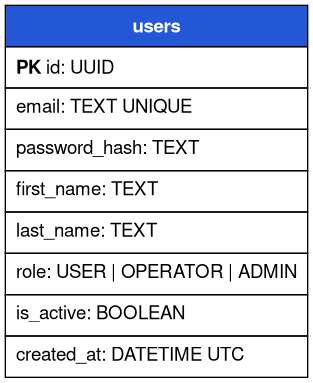
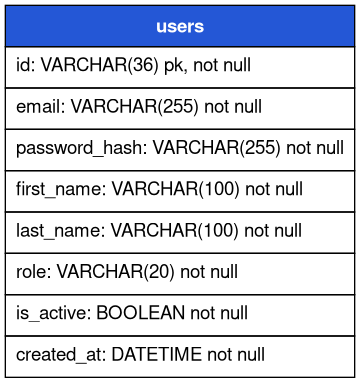
Исправление Identity Service

Changed region(s): [[0.0, 0.0, 1.0, 1.0], [0.4026, 0.0574, 0.5751, 0.0862]]

diff --git a/smart-city/services/identity-service/app/database.py b/smart-city/services/identity-service/app/database.py
@@ -1,14 +1,40 @@
 import os
+from datetime import datetime, timezone
 from collections.abc import Generator
 
-from sqlalchemy import create_engine
+from sqlalchemy import DateTime, create_engine, event, inspect
+from sqlalchemy.types import TypeDecorator
 from sqlalchemy.orm import DeclarativeBase, Session, sessionmaker
 
 DATABASE_URL = os.getenv("DATABASE_URL", "sqlite:///./identity.db")
-engine = create_engine(
-    DATABASE_URL,
-    connect_args={"check_same_thread": False} if DATABASE_URL.startswith("sqlite") else {},
-)
+
+
+def build_engine(url: str):
+    connect_args = {"check_same_thread": False, "timeout": 30} if url.startswith("sqlite") else {}
+    result = create_engine(url, connect_args=connect_args)
+    if url.startswith("sqlite"):
+        @event.listens_for(result, "connect")
+        def configure_sqlite(connection, _):
+            connection.execute("PRAGMA foreign_keys=ON")
+    return result
+
+
+class UTCDateTime(TypeDecorator):
+    impl = DateTime
+    cache_ok = True
+
+    def process_bind_param(self, value, dialect):
+        if value is None:
+            return None
+        if value.tzinfo is None:
+            raise ValueError("Datetime must have a timezone")
+        return value.astimezone(timezone.utc).replace(tzinfo=None)
+
+    def process_result_value(self, value, dialect):
+        return value.replace(tzinfo=timezone.utc) if value is not None else None
+
+
+engine = build_engine(DATABASE_URL)
 SessionLocal = sessionmaker(bind=engine, autoflush=False, expire_on_commit=False)
 
 
@@ -21,7 +47,28 @@ def get_db() -> Generator[Session, None, None]:
         yield session
 
 
+def schema_signature(reader, name):
+    normalize = lambda value: "" if value is None else str(value).strip()
+    return (
+        sorted((c["name"], str(c["type"]), c["nullable"], normalize(c.get("default"))) for c in reader.get_columns(name)),
+        reader.get_pk_constraint(name)["constrained_columns"],
+        sorted((i["name"], bool(i["unique"]), tuple(i["column_names"]), normalize(i.get("dialect_options", {}).get("sqlite_where"))) for i in reader.get_indexes(name)),
+        sorted((tuple(u["column_names"])) for u in reader.get_unique_constraints(name)),
+        sorted((c["name"] or "", normalize(c["sqltext"])) for c in reader.get_check_constraints(name)),
+        sorted((tuple(f["constrained_columns"]), f["referred_table"], tuple(f["referred_columns"]), repr(sorted(f.get("options", {}).items()))) for f in reader.get_foreign_keys(name)),
+    )
+
+
 def init_database() -> None:
     import app.models  # noqa: F401
 
+    reference = build_engine("sqlite://")
+    try:
+        Base.metadata.create_all(reference)
+        existing, expected = inspect(engine), inspect(reference)
+        for table in Base.metadata.sorted_tables:
+            if existing.has_table(table.name) and schema_signature(existing, table.name) != schema_signature(expected, table.name):
+                raise RuntimeError("Legacy database: migrate a backup with scripts/migrate_database.py before starting")
+    finally:
+        reference.dispose()
     Base.metadata.create_all(bind=engine)

diff --git a/smart-city/services/identity-service/app/auth.py b/smart-city/services/identity-service/app/auth.py
@@ -1,4 +1,5 @@
 import os
+from uuid import UUID
 from dataclasses import dataclass
 from datetime import datetime, timedelta, timezone
 from typing import Annotated, Callable
@@ -7,6 +8,7 @@ import jwt
 from fastapi import Depends, HTTPException, status
 from fastapi.security import HTTPAuthorizationCredentials, HTTPBearer
 from pwdlib import PasswordHash
+from pwdlib.exceptions import UnknownHashError
 
 password_hasher = PasswordHash.recommended()
 bearer_scheme = HTTPBearer(auto_error=False)
@@ -23,7 +25,10 @@ def hash_password(password: str) -> str:
 
 
 def verify_password(password: str, password_hash: str) -> bool:
-    return password_hasher.verify(password, password_hash)
+    try:
+        return password_hasher.verify(password, password_hash)
+    except (UnknownHashError, ValueError):
+        return False
 
 
 def create_access_token(user_id: str, role: str) -> str:
@@ -52,17 +57,21 @@ def get_current_user(
             credentials.credentials,
             os.getenv("JWT_SECRET", "development-jwt-secret"),
             algorithms=["HS256"],
+            options={"require": ["sub", "role", "exp"]},
         )
         user_id = payload["sub"]
         role = payload["role"]
-    except (jwt.InvalidTokenError, KeyError, TypeError):
+        UUID(user_id)
+        if role not in {"USER", "OPERATOR", "ADMIN"}:
+            raise ValueError("Invalid role")
+    except (jwt.InvalidTokenError, KeyError, TypeError, ValueError, AttributeError, OverflowError):
         raise HTTPException(
             status_code=status.HTTP_401_UNAUTHORIZED,
             detail="Недействительный JWT",
             headers={"WWW-Authenticate": "Bearer"},
         ) from None
 
-    return CurrentUser(id=str(user_id), role=str(role))
+    return CurrentUser(id=str(UUID(user_id)), role=role)
 
 
 def require_roles(*allowed_roles: str) -> Callable:

diff --git a/smart-city/services/identity-service/app/schemas.py b/smart-city/services/identity-service/app/schemas.py
@@ -1,4 +1,5 @@
 from datetime import datetime
+import re
 from typing import Literal
 
 from pydantic import BaseModel, ConfigDict, Field, field_validator
@@ -7,6 +8,11 @@ Role = Literal["USER", "OPERATOR", "ADMIN"]
 
 
 class RegisterRequest(BaseModel):
+    @field_validator("first_name", "last_name", mode="before")
+    @classmethod
+    def trim_names(cls, value):
+        return value.strip() if isinstance(value, str) else value
+
     email: str = Field(min_length=3, max_length=255)
     password: str = Field(min_length=8, max_length=128)
     first_name: str = Field(min_length=1, max_length=100)
@@ -16,7 +22,7 @@ class RegisterRequest(BaseModel):
     @classmethod
     def validate_email(cls, value: str) -> str:
         normalized = value.strip().lower()
-        if "@" not in normalized or normalized.startswith("@"):
+        if not re.fullmatch(r"[^\s@]+@(?:[a-z0-9](?:[a-z0-9-]*[a-z0-9])?\.)+[a-z]{2,63}", normalized):
             raise ValueError("Введите корректный email")
         return normalized
 

diff --git a/smart-city/services/identity-service/app/models.py b/smart-city/services/identity-service/app/models.py
@@ -1,13 +1,14 @@
 from datetime import datetime, timezone
 
-from sqlalchemy import Boolean, DateTime, String
+from sqlalchemy import Boolean, CheckConstraint, String
 from sqlalchemy.orm import Mapped, mapped_column
 
-from app.database import Base
+from app.database import Base, UTCDateTime
 
 
 class User(Base):
     __tablename__ = "users"
+    __table_args__ = (CheckConstraint("role IN ('USER','OPERATOR','ADMIN')", name="ck_user_role"),)
 
     id: Mapped[str] = mapped_column(String(36), primary_key=True)
     email: Mapped[str] = mapped_column(String(255), unique=True, index=True)
@@ -17,5 +18,5 @@ class User(Base):
     role: Mapped[str] = mapped_column(String(20), default="USER")
     is_active: Mapped[bool] = mapped_column(Boolean, default=True)
     created_at: Mapped[datetime] = mapped_column(
-        DateTime(timezone=True), default=lambda: datetime.now(timezone.utc)
+        UTCDateTime(), default=lambda: datetime.now(timezone.utc)
     )

diff --git a/smart-city/services/identity-service/app/main.py b/smart-city/services/identity-service/app/main.py
@@ -7,6 +7,8 @@ from uuid import uuid4
 
 from fastapi import Depends, FastAPI, HTTPException, status
 from fastapi.middleware.cors import CORSMiddleware
+from fastapi.exceptions import RequestValidationError
+from app.errors import validation_error
 from sqlalchemy import select
 from sqlalchemy.exc import IntegrityError
 from sqlalchemy.orm import Session
@@ -34,6 +36,7 @@ async def lifespan(_: FastAPI):
 
 
 app = FastAPI(title="Identity Service", lifespan=lifespan)
+app.add_exception_handler(RequestValidationError, validation_error)
 app.add_middleware(
     CORSMiddleware,
     allow_origins=os.getenv("CORS_ORIGINS", "http://localhost:5173").split(","),

diff --git a/smart-city/services/identity-service/app/seed.py b/smart-city/services/identity-service/app/seed.py
@@ -31,9 +31,10 @@ DEMO_USERS = (
 
 
 def seed_database(session: Session) -> None:
-    if session.scalar(select(User.id).limit(1)) is not None:
-        return
-
     for user_data in DEMO_USERS:
+        if session.get(User, user_data["id"]) is not None:
+            continue
+        if session.scalar(select(User.id).where(User.email == user_data["email"])) is not None:
+            raise RuntimeError("Demo email belongs to another account; resolve without replacing the account")
         session.add(User(**user_data, password_hash=hash_password(DEMO_PASSWORD)))
     session.commit()

diff --git a/smart-city/services/identity-service/app/errors.py b/smart-city/services/identity-service/app/errors.py
@@ -1,0 +1,8 @@
+from fastapi.encoders import jsonable_encoder
+from fastapi.responses import JSONResponse
+
+
+async def validation_error(_, error):
+    # Do not echo untrusted nonfinite inputs or exception objects into JSON.
+    detail = [{k: v for k, v in item.items() if k not in {"input", "ctx"}} for item in error.errors()]
+    return JSONResponse(status_code=422, content={"detail": jsonable_encoder(detail)})

diff --git a/smart-city/database-design/identity/description.md b/smart-city/database-design/identity/description.md
@@ -1,18 +1,11 @@
-# Identity Service database
+# БД Identity
 
-## `users`
+Файл: `/data/identity.db`. Таблица `users` хранит UUID, уникальный email,
+Argon2-хеш пароля, имя, фамилию, роль, активность и время регистрации.
 
-Хранит учётные записи пользователей. `id` — UUID, который передаётся другим
-сервисам только через JWT или HTTP API; внешних ключей в другие базы нет.
+- Первичный ключ - `users.id`; email имеет уникальный индекс.
+- Роли ограничены `USER`, `OPERATOR`, `ADMIN`.
+- Пароли в открытом виде не сохраняются; даты хранятся в UTC.
+- Связей с БД других сервисов нет.
 
-| Поле | Назначение |
-|---|---|
-| `id` | первичный ключ UUID |
-| `email` | уникальный логин пользователя |
-| `password_hash` | Argon2-хеш, пароль в открытом виде не сохраняется |
-| `first_name`, `last_name` | данные публичного профиля |
-| `role` | `USER`, `OPERATOR` или `ADMIN` |
-| `is_active` | блокировка учётной записи без удаления |
-| `created_at` | дата создания в UTC |
-
-`email` имеет уникальное ограничение и индекс.
+Материалы: [SQL](schema.sql), [DBML](schema.dbml), [диаграмма](schema.png).
